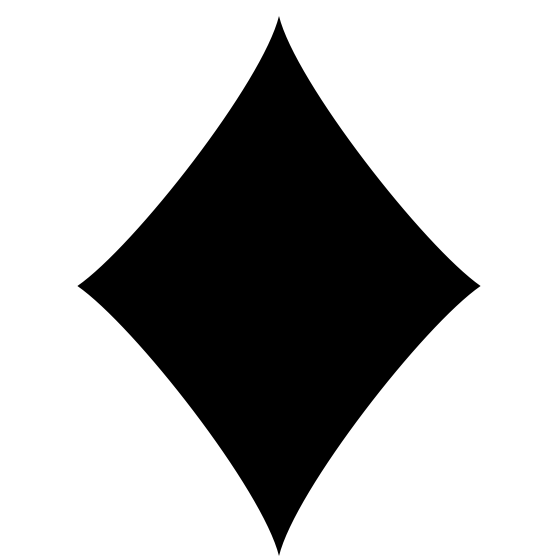
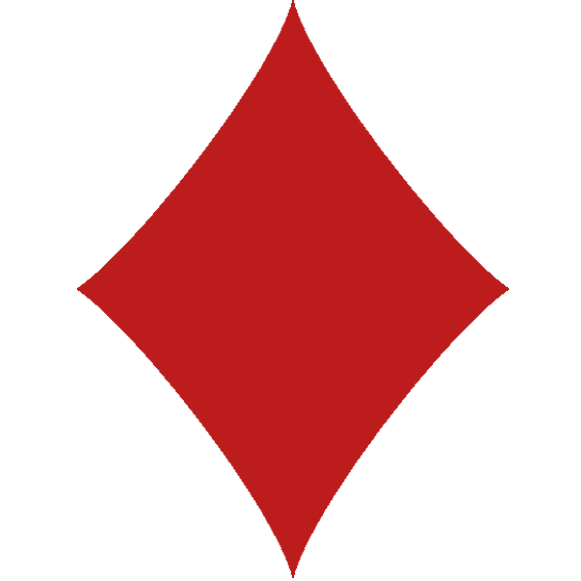
Added styles and moved score to separate component

diff --git a/src/view/components/App.tsx b/src/view/components/App.tsx
@@ -1,9 +1,20 @@
 import React, { useState } from 'react';
+import styled from 'styled-components';
 import { Game } from "../../logic/Game";
+import { GlobalStyle } from '../styles/GlobalStyle';
 import Card from './Card';
 import NextButton from './NextButton';
+import ScoreDiv from './ScoreDiv';
+
 
 let game = new Game();
+
+const ButtonWrapper = styled.div`
+      display: flex;
+      align-items: center;
+      justify-content: center;
+`;
+
 
 function App() {
   const [score, setScore] = useState(game.getScore());
@@ -26,11 +37,14 @@ function App() {
 
   return (
     <>
+      <GlobalStyle/>
       <Card color={cardColor} value={cardValue}></Card>
-      {!isDisabled && <div>{score}</div>}
-      <NextButton disabled={isDisabled} onClick={() => moveToNext("higher")}>Higher</NextButton>
-      <NextButton disabled={isDisabled} onClick={() => moveToNext("lower")}>Lower</NextButton>
-      {isDisabled && <p>Game over, your final score is {score}</p>}
+      <ButtonWrapper>
+        <NextButton disabled={isDisabled} onClick={() => moveToNext("higher")}>Higher</NextButton>
+        <NextButton disabled={isDisabled} onClick={() => moveToNext("lower")}>Lower</NextButton>
+      </ButtonWrapper>
+      {!isDisabled && <ScoreDiv>Current score: {score}</ScoreDiv>}
+      {isDisabled && <ScoreDiv>Game over, your final score is {score}</ScoreDiv>}
     </>
   );
 }

diff --git a/src/view/components/Card.tsx b/src/view/components/Card.tsx
@@ -4,11 +4,28 @@ import club from "../resources/club.png";
 import spade from "../resources/spade.png";
 import diamond from "../resources/diamond.png";
 import heart from "../resources/heart.png";
+import styled from 'styled-components';
 
 interface CardProps {
       color: string;
       value: string;
 }
+
+const StyledCardValue = styled.span`
+      font-size: 175px;
+      font-weight: 600;
+      margin-right: 0.1em;
+`;
+
+const StyledCardColor = styled.img`
+      max-width: 140px;
+`;
+
+const CardWrapper = styled.div`
+      display: flex;
+      align-items: center;
+      justify-content: center;
+`;
 
 const Card:FC<CardProps> = (props) => {
      
@@ -49,10 +66,10 @@ const Card:FC<CardProps> = (props) => {
       }
 
       return (
-            <div>
-                  <span>{cardValue}</span>
-                  <img src={cardImage} alt=""/>
-            </div>
+            <CardWrapper className="Card">
+                  <StyledCardValue>{cardValue}</StyledCardValue>
+                  <StyledCardColor src={cardImage} alt=""/>
+            </CardWrapper>
       );
 }
 

diff --git a/src/view/components/NextButton.tsx b/src/view/components/NextButton.tsx
@@ -1,10 +1,28 @@
 import React from 'react';
 import { FC } from 'react';
+import styled from 'styled-components';
 
 interface ButtonProps {
       disabled: boolean; 
       onClick: () => void;
 }
+
+const StyledNextButton = styled.button`   
+      text-align: center;
+      font-size: 25px;
+      background-color: #F9EADC;
+      color: #000000;
+      border: none;
+      border-radius: 5px 20px 5px;
+      padding: 20px;
+      width: 5em;
+      margin: 5px;
+      cursor: pointer;
+
+      :hover {
+            background-color: #f2e3d5;
+      }
+`;
 
 const NextButton:FC<ButtonProps> = (props) => {     
       function handleClick() {
@@ -17,8 +35,8 @@ const NextButton:FC<ButtonProps> = (props) => {
       }
 
       return (
-            <button onClick={handleClick}>{props.children} </button>
+            <StyledNextButton onClick={handleClick}>{props.children} </StyledNextButton>
       );
 }     
 
-export default NextButton;
+export default NextButton;    

diff --git a/src/view/components/ScoreDiv.tsx b/src/view/components/ScoreDiv.tsx
@@ -1,0 +1,24 @@
+import React from 'react';
+import { FC } from 'react';
+import styled from 'styled-components';
+
+const StyledScore = styled.div`
+      display: flex;
+      align-items: center;
+      justify-content: center;
+      font-size: 25px;
+      margin-top: 2em;
+`;
+
+interface ScoreProps {
+      // why does it have to be declared even without children element to work?
+}
+
+const ScoreDiv:FC<ScoreProps> = (props) => {
+
+      return (
+            <StyledScore>{props.children}</StyledScore>
+      );
+}
+
+export default ScoreDiv;

diff --git a/src/view/styles/GlobalStyle.ts b/src/view/styles/GlobalStyle.ts
@@ -1,0 +1,11 @@
+import {createGlobalStyle} from 'styled-components';
+
+export const GlobalStyle = createGlobalStyle`
+      html, body {
+            min-height: 100%;
+            display: flex;
+            align-items: center;
+            justify-content: center;
+            font-family: helvetica;
+      }
+`;
